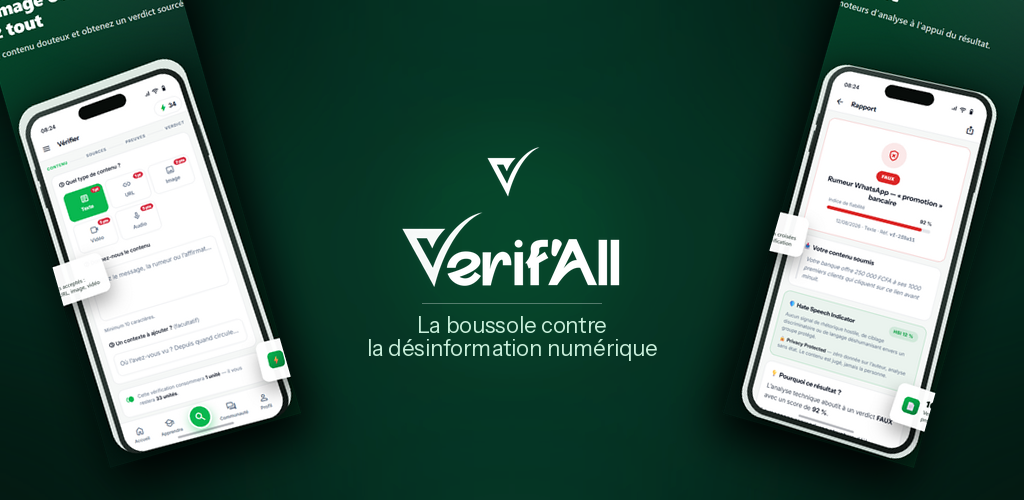
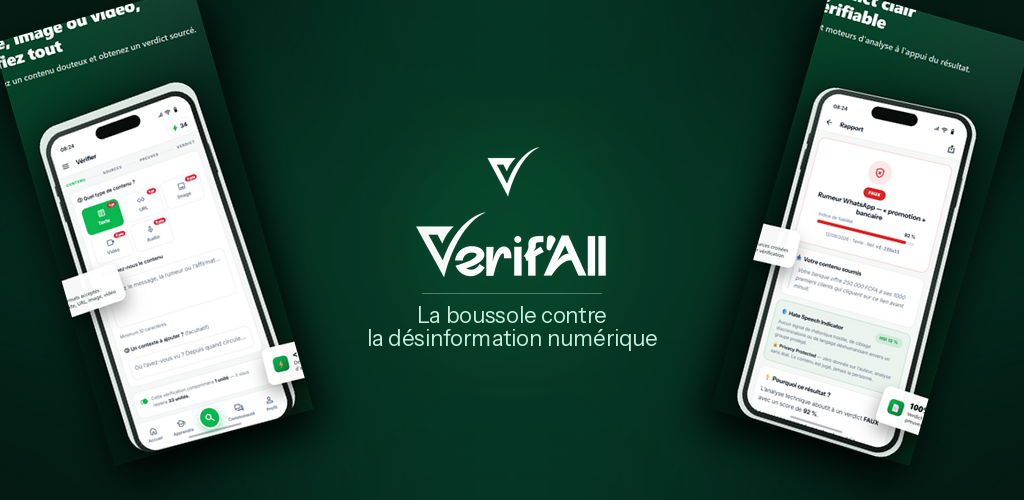
fix(playstore): feature graphic v3 — suppression texte screenshot, composition équilibrée
Corrections post-review :
- PHONE_BOX y1 : 270→295 — élimine le saignement des textes
  titre/sous-titre (y~155-285) dans la zone de crop du phone
- PHONE_BOX x élargi (195-905) pour frame iPhone plus net
- PHONE_H 480→440, offset 22→18%, shadow blur 22→20
  pour meilleur équilibre phones/espace central
- Wordmark 240→210px pour maintenir la respiration visuelle

Claude-Session: https://claude.ai/code/session_01WZtcdDSFHW1KDxTpDcUvTX

Changed region(s): [[0.7188, 0.0, 1.0, 0.93], [0.0, 0.0, 0.3125, 0.9], [0.3438, 0.42, 0.6562, 0.72]]

diff --git a/docs/playstore/make_feature_graphic.py b/docs/playstore/make_feature_graphic.py
@@ -30,7 +30,8 @@ BLANC        = (255, 255, 255)
 W, H = 1024, 500
 
 # Coordonnées exactes du cadre iPhone dans les screenshots 1080×1920
-PHONE_BOX = (230, 270, 870, 1810)   # x1, y1, x2, y2
+# y1=295 : juste sous les textes titre (y~155-285) — évite le saignement
+PHONE_BOX = (195, 295, 905, 1800)   # x1, y1, x2, y2  →  710×1505 px
 
 
 # ── Utilitaires police ────────────────────────────────────────────────────────
@@ -170,7 +171,7 @@ def compose_center(canvas: Image.Image, cx: int) -> None:
     y += icon_size + 10
 
     # 3. Wordmark (logo-light.png — version blanche)
-    wm_w = 240
+    wm_w = 210
     if LOGO_LIGHT.exists():
         logo = Image.open(LOGO_LIGHT).convert("RGBA")
         r, g, b, a = logo.split()
@@ -212,29 +213,29 @@ def main():
         if not p.exists():
             sys.exit(f"❌  Introuvable : {p}")
 
-    PHONE_H = 480   # hauteur cible téléphone sur le feature graphic
+    PHONE_H = 440   # hauteur cible téléphone — équilibre avec espace central
     TILT    = 16    # degrés d'inclinaison
 
     # 1. Fond
     canvas = make_background().convert("RGBA")
 
-    # 2. Téléphone gauche — incliné à droite (top vers la gauche, angle positif)
+    # 2. Téléphone gauche — incliné (top vers la gauche, angle positif PIL)
     ph_l = extract_phone(src_left, PHONE_H)
-    ph_l = add_shadow(ph_l, blur=22, offset=(6, 20))
-    ph_l = tilt_phone(ph_l, +TILT)          # +angle = anti-horaire = top vers gauche
+    ph_l = add_shadow(ph_l, blur=20, offset=(5, 18))
+    ph_l = tilt_phone(ph_l, +TILT)
     pw_l, ph_l_h = ph_l.size
-    # Positionné : déborde à gauche et en bas
-    x_l = -int(pw_l * 0.22)
-    y_l = H - ph_l_h + int(ph_l_h * 0.08)  # bottom 8% sous le canvas
+    # offset 0.18 : phone déborde légèrement à gauche, visible à 82%
+    x_l = -int(pw_l * 0.18)
+    y_l = H - ph_l_h + int(ph_l_h * 0.07)   # bottom 7% sous le canvas
     canvas.alpha_composite(ph_l, (x_l, y_l))
 
-    # 3. Téléphone droit — incliné à gauche (top vers la droite, angle négatif)
+    # 3. Téléphone droit — incliné (top vers la droite, angle négatif PIL)
     ph_r = extract_phone(src_right, PHONE_H)
-    ph_r = add_shadow(ph_r, blur=22, offset=(-6, 20))
-    ph_r = tilt_phone(ph_r, -TILT)          # -angle = horaire = top vers droite
+    ph_r = add_shadow(ph_r, blur=20, offset=(-5, 18))
+    ph_r = tilt_phone(ph_r, -TILT)
     pw_r, ph_r_h = ph_r.size
-    x_r = W - pw_r + int(pw_r * 0.22)
-    y_r = H - ph_r_h + int(ph_r_h * 0.08)
+    x_r = W - pw_r + int(pw_r * 0.18)
+    y_r = H - ph_r_h + int(ph_r_h * 0.07)
     canvas.alpha_composite(ph_r, (x_r, y_r))
 
     # 4. Composition centrale (logo, wordmark, tagline)
